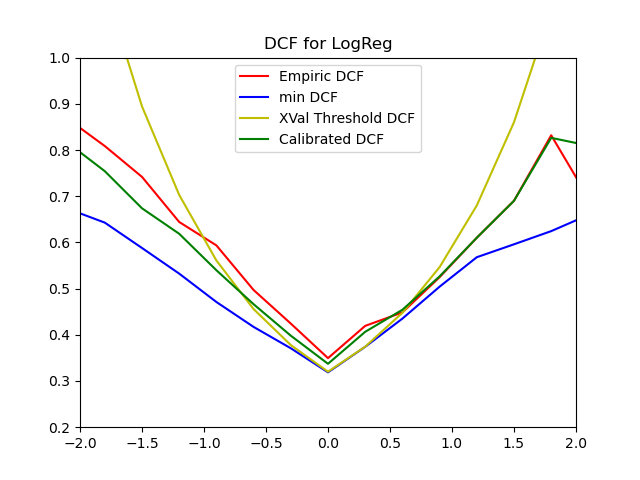
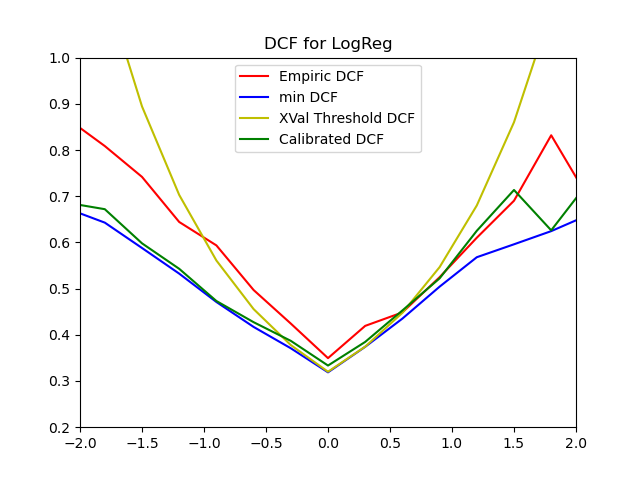
feat(test): edit logreg and svm test code, to reflet calib change

diff --git a/projectFiles/test_svm.py b/projectFiles/test_svm.py
@@ -30,9 +30,9 @@ prior_1 = 0.5
 
 #SVM MODELS
 
-optimal_m = 10
+optimal_m = 11
 optimal_K = 1
-optimal_C = 0.1
+optimal_C = 1
 reduced_normalized_dtr, P = pca(normalized_dtr, optimal_m)
 reduced_normalized_dte = numpy.dot(P.T, normalized_dte)
 
@@ -40,18 +40,29 @@ svm_l = SVM_linear(reduced_normalized_dtr, LTR, reduced_normalized_dte, LTE, [pr
 svm_l.train()
 svm_l.test()
 
+#DCF EMPIRICO
+empiric_dcf = svm_l.compute_dcf()
+#DCF XVAL THRESHOLD
+xvalthreshold_dcf = svm_l.compute_dcf(-0.3716369466883391)
+#DCF MINIMO
+min_dcf = svm_l.compute_min_dcf()[0]
 
 #DCF CALIBRATO
-calibrated_scores, calibrated_labels = calibration(svm_l.score[0], svm_l.LTE)
-confusion_matrix = compute_confusion_matrix_binary(numpy.array(calibrated_labels), numpy.array(calibrated_scores), prior_1, 1, 1)
+w = numpy.array([1.37358556])
+b = 0.5886980606735804
+calibrated_scores = w * svm_l.score[0] + b
+confusion_matrix = compute_confusion_matrix_binary(svm_l.LTE, calibrated_scores, prior_1, 1, 1)
 calibrated_dcf = compute_normalized_dcf_binary(confusion_matrix, prior_1, 1, 1)
 
 #DCF CALIBRATO MIN
-calibrated_min_dcf = compute_min_dcf(calibrated_labels,calibrated_scores, prior_1, 1, 1)[0]
+calibrated_min_dcf = compute_min_dcf(svm_l.LTE,calibrated_scores, prior_1, 1, 1)[0]
+
+bayes_error_plots("DCF for Linear SVM", svm_l.LTE, svm_l.score[0], validation_threshold = -0.3716369466883391, calibrated_scores = calibrated_scores)
+
 
 #------------------------------------------------
 
-optimal_m = 10
+""" optimal_m = 10
 optimal_K = 1
 optimal_C = 1
 optimal_c = 1
@@ -69,6 +80,8 @@ empiric_dcf = svm_p.compute_dcf()
 xvalthreshold_dcf = svm_p.compute_dcf(-0.30825297694737075)
 #DCF MINIMO
 min_dcf = svm_p.compute_min_dcf()[0]
+
+bayes_error_plots("DCF for Poly SVM", svm_p.LTE, svm_p.score, validation_threshold = -0.30825297694737075)
 
 #------------------------------------------------
 
@@ -90,6 +103,7 @@ xvalthreshold_dcf = svm_rbf.compute_dcf(6.985426439970719e-07)
 #DCF MINIMO
 min_dcf = svm_rbf.compute_min_dcf()[0]
 
+bayes_error_plots("DCF for RBF SVM", svm_rbf.LTE, svm_rbf.score, validation_threshold = 6.985426439970719e-07) """
 
 
 Printer.print_title("SVM linear data")

diff --git a/projectFiles/test_logreg.py b/projectFiles/test_logreg.py
@@ -44,13 +44,13 @@ log_reg.logreg_test()
 #DCF EMPIRICO
 empiric_dcf = log_reg.compute_dcf(prior_1)
 #DCF XVAL THRESHOLD
-xvalthreshold_dcf = log_reg.compute_dcf(prior_1, -0.5865054923862975)
+xvalthreshold_dcf = log_reg.compute_dcf(prior_1, -0.7029942351576266)
 #DCF MINIMO
 min_dcf = log_reg.compute_min_dcf(prior_1)[0]
 
 #DCF CALIBRATO
-w = numpy.array([1.10404366])
-b = 0.12502534381771793
+w = numpy.array([1.17207572])
+b = 0.7965104267331936
 
 calibrated_scores = w * log_reg.S + b
 
@@ -58,7 +58,7 @@ confusion_matrix = compute_confusion_matrix_binary(log_reg.LTE, calibrated_score
 calibrated_dcf = compute_normalized_dcf_binary(confusion_matrix, prior_1, 1, 1)
 
 #DCF CALIBRATO CON XVAL THRESHOLD
-confusion_matrix = compute_confusion_matrix_binary(log_reg.LTE, calibrated_scores, prior_1, 1, 1,-0.5865054923862975)
+confusion_matrix = compute_confusion_matrix_binary(log_reg.LTE, calibrated_scores, prior_1, 1, 1,-0.7029942351576266)
 calibrated_xvalthreshold_dcf = compute_normalized_dcf_binary(confusion_matrix, prior_1, 1, 1)
 
 
